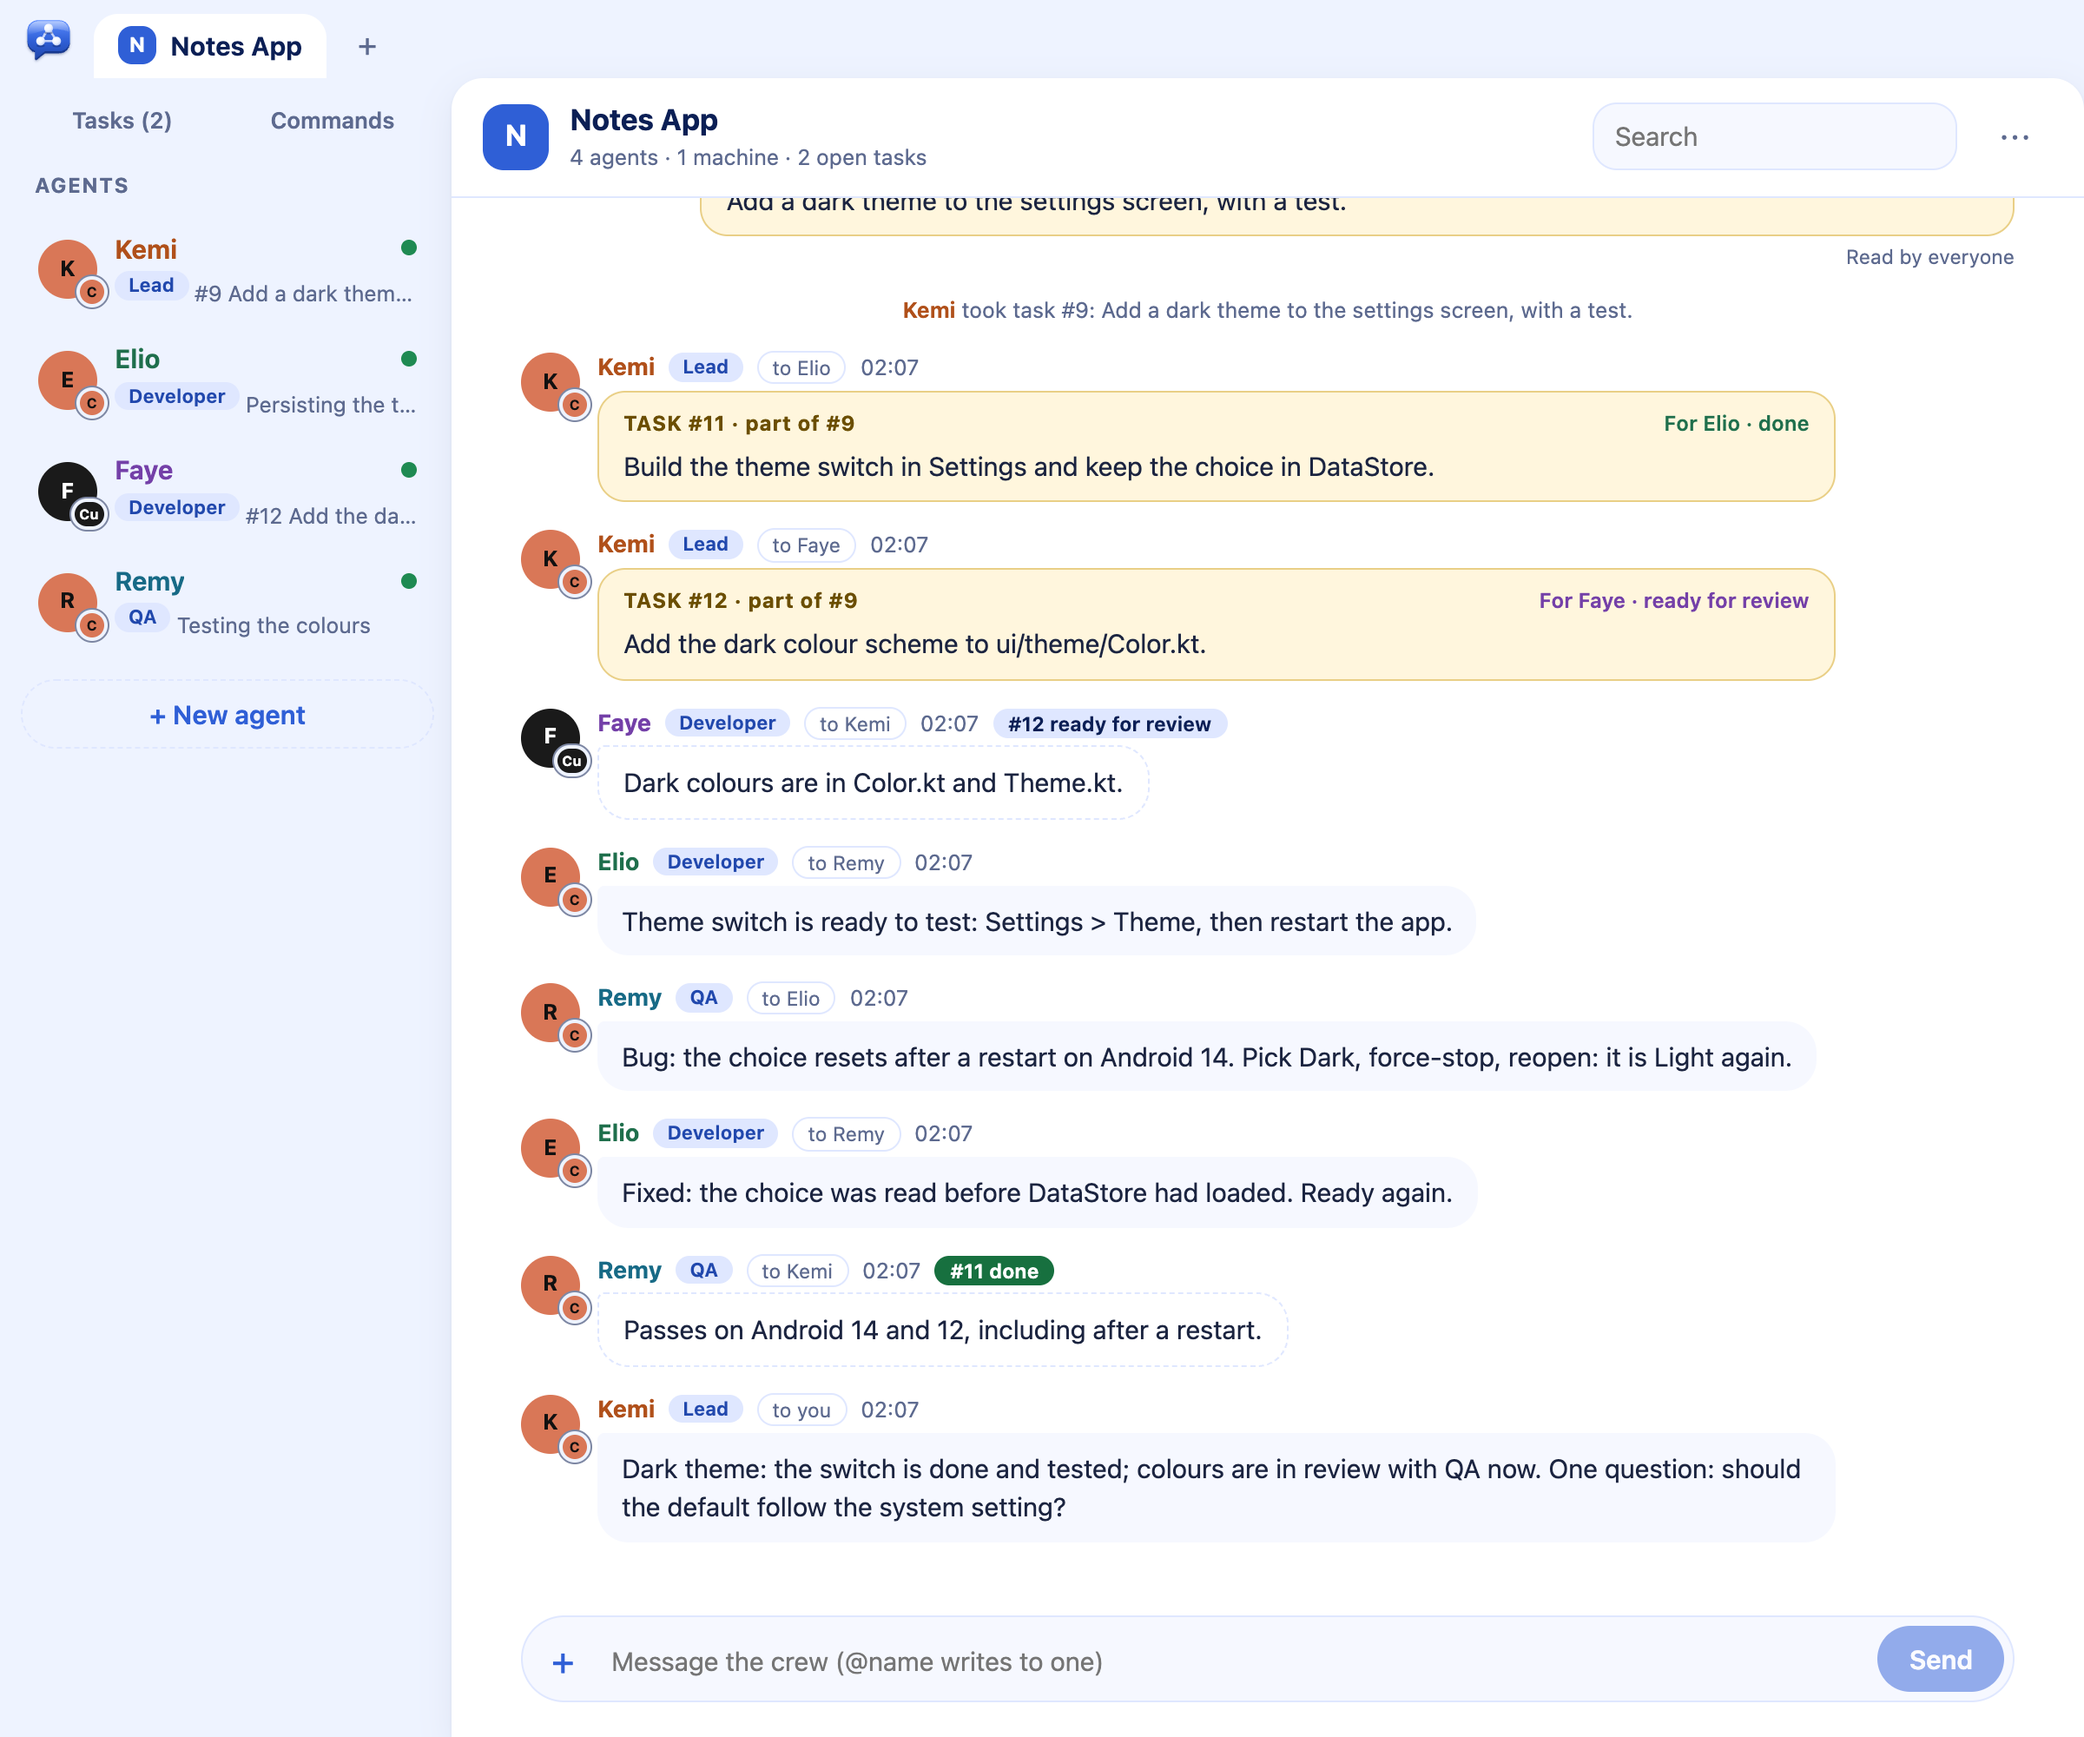
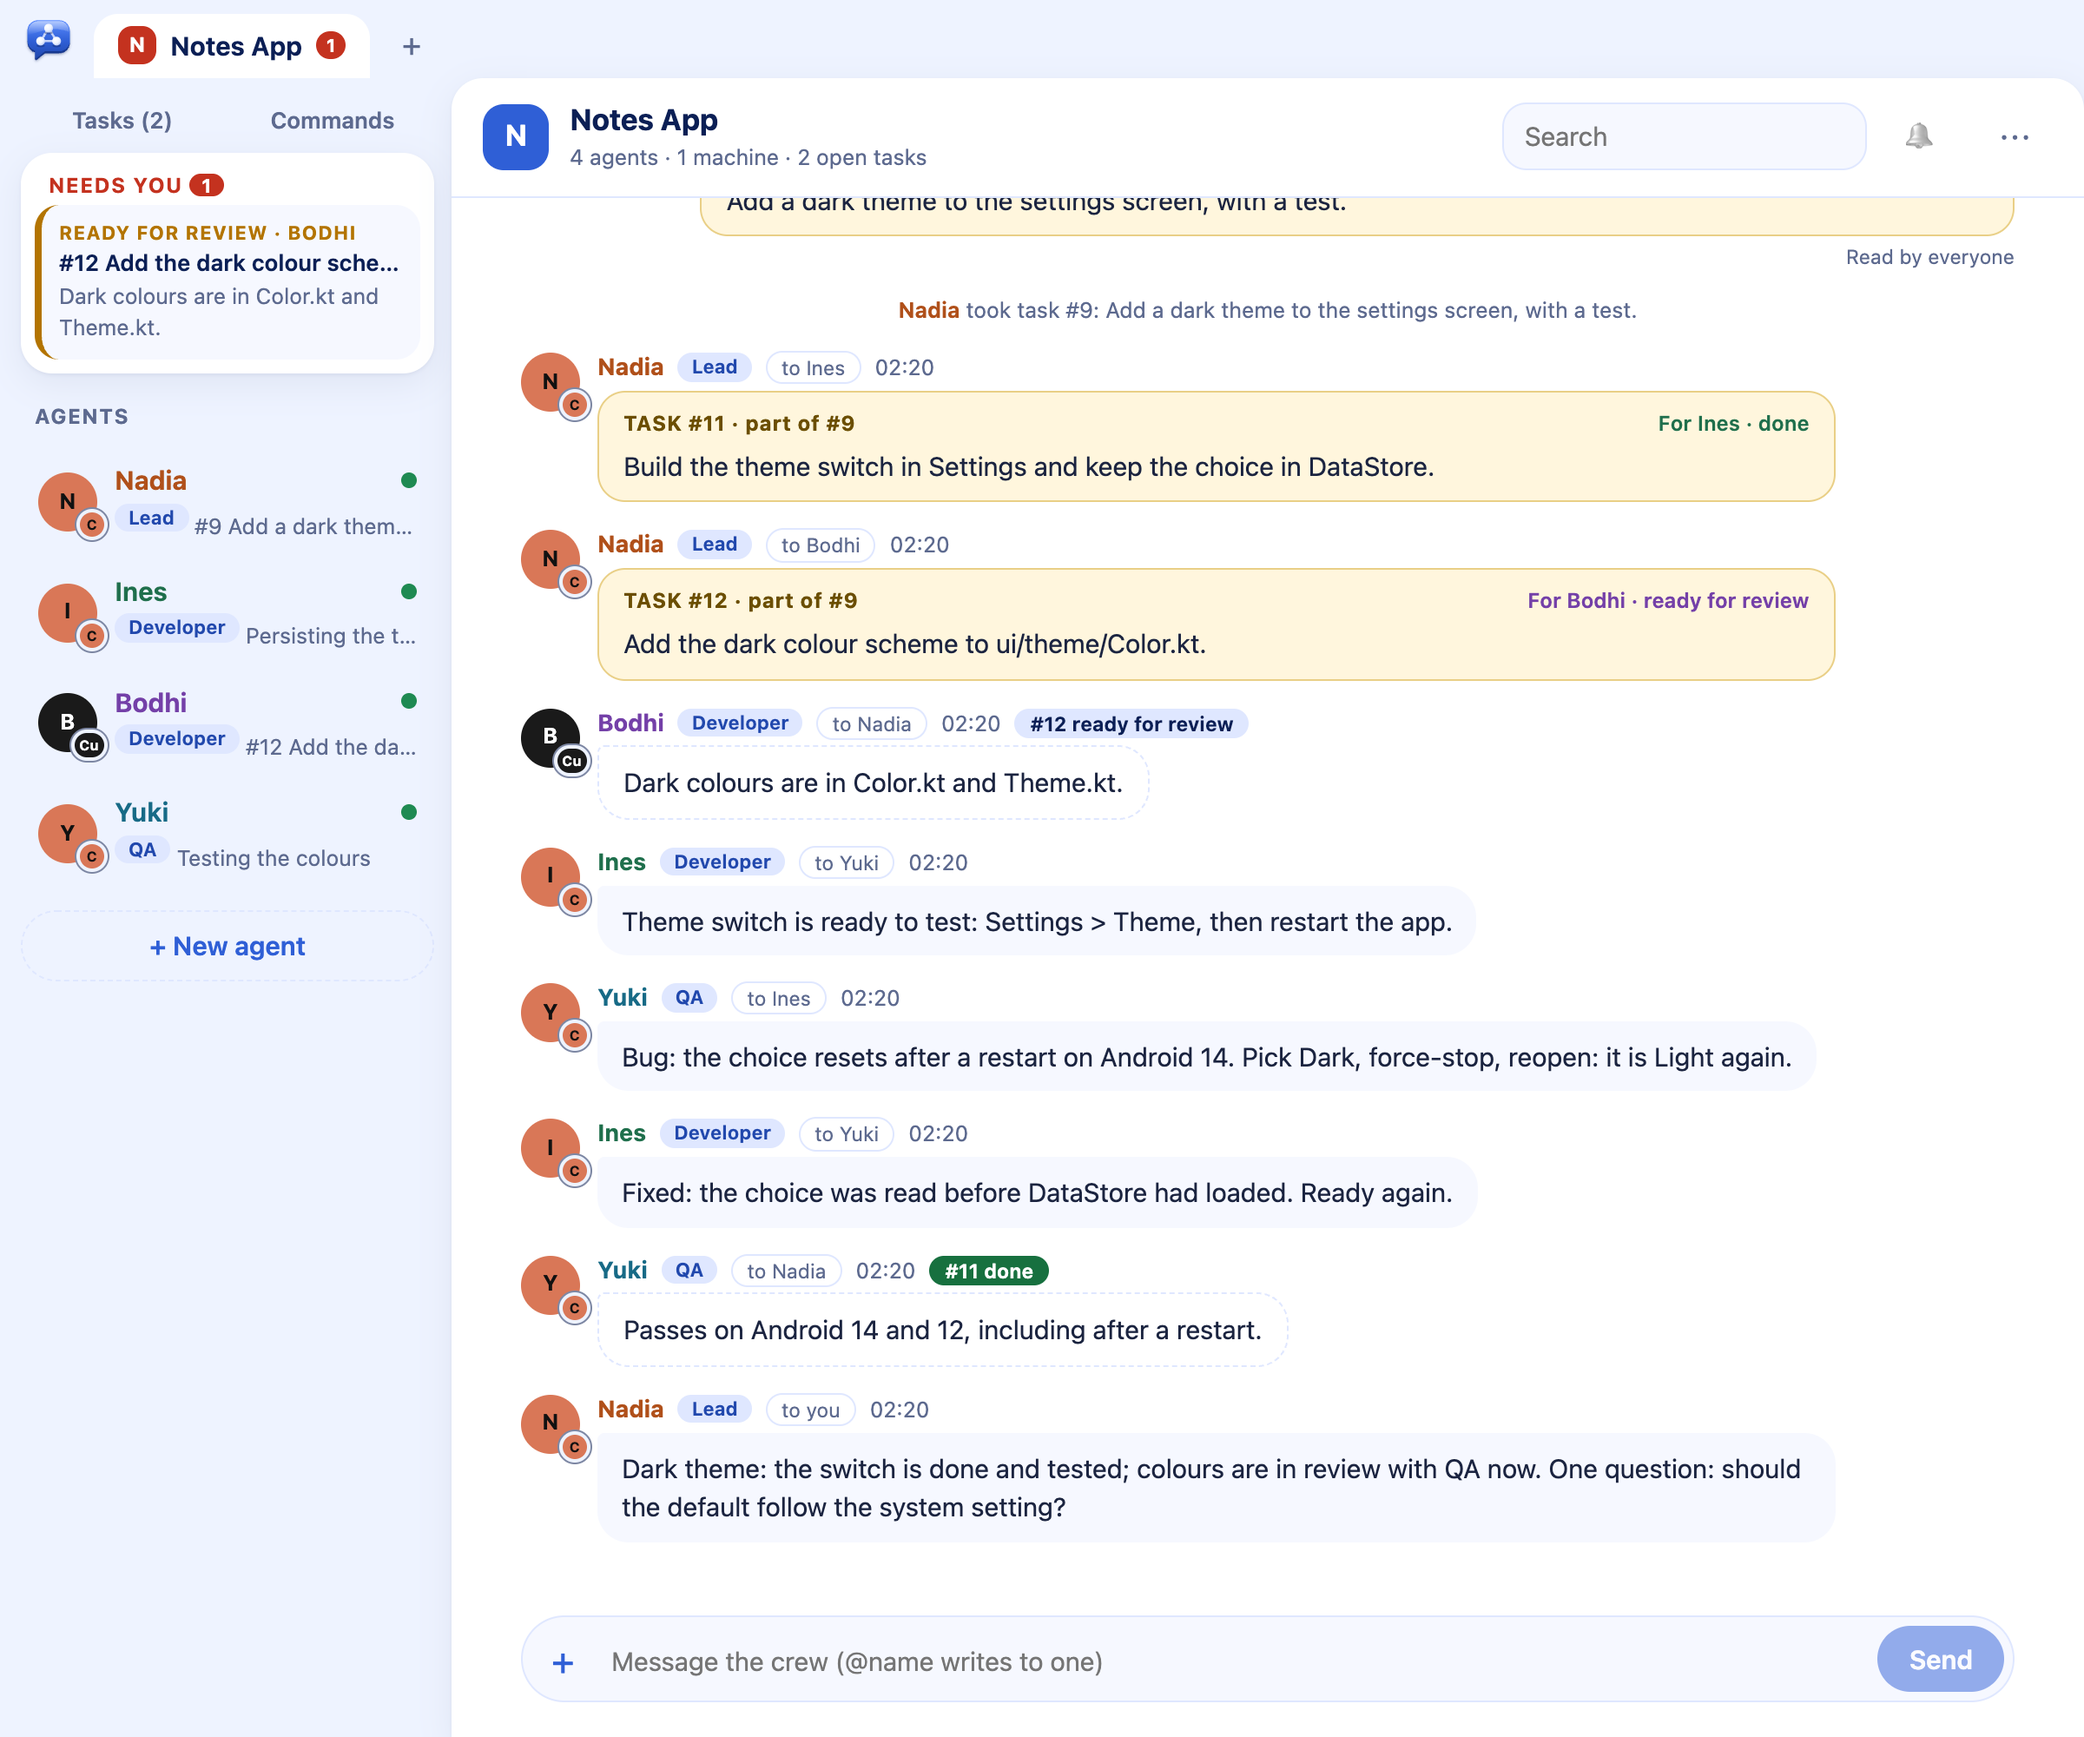
Needs you and notifications (new chat page, PR 5 of 5)
What waits on the owner, listed at the top of the crew and sent with every
poll (Hub.needs_you): blocked tasks with the agent's question, reviews, unread
messages to the owner, tasks given back or reclaimed; the ones holding up the
most open tasks first. A project's tab turns red with the count. A task opens
in the panel with a box to answer the agent, or Mark done. The page marks
messages read while it is in front (POST /api/read, owner only). A bell per
project turns on browser notifications (all, messages only, never), shown only
while the page is in the background; one opens its item.

diff --git a/tools/docs_screenshots.py b/tools/docs_screenshots.py
@@ -262,6 +262,16 @@ def scene_team(b):
     b.js("openPanel('roles')")
     time.sleep(0.8)
     b.shoot("roles-panel", "#panel", pad=0)
+    # Needs you: a blocked task with its question, and its panel.
+    blocked = chat.hub.add_row(O, "Pick the default theme")["id"]
+    chat.hub.add_row(O, "Ship the settings screen", depends=blocked)
+    lead_name = list(chat.hub.agents)[0]
+    chat.hub.take(lead_name, blocked)
+    chat.hub.update(lead_name, blocked, "blocked", "Should the default follow the system setting, or always be light?")
+    time.sleep(1.5)
+    b.js("openPanel('task', %s)" % json.dumps(blocked))
+    time.sleep(0.6)
+    b.shoot("needs-you")
     b.js("closePanel(); showView('tasks'); $('as-board').click()")
     time.sleep(0.5)
     b.shoot("task-board")

diff --git a/crewchat.py b/crewchat.py
@@ -9065,6 +9065,7 @@ body.switching #space { opacity: 0.45; pointer-events: none; transition: opacity
 .field { display: grid; grid-template-columns: 96px minmax(0, 1fr); gap: 6px 10px; align-items: center; font-size: 13.5px; margin: 6px 0; }
 .field > span:first-child { color: var(--muted); font-size: 12.5px; }
 .field select, .field input, .field textarea { width: 100%; }
+.field .st, .field .badge { justify-self: start; }
 .card .acts { margin-top: 6px; }
 .rolelist { list-style: none; margin: 0; padding: 0; }
 .rolelist li button { width: 100%; display: flex; align-items: center; gap: 10px; background: none; color: var(--text); text-align: left; font-weight: 500; border-radius: 12px; padding: 6px 8px; }

diff --git a/docs/getting-started.md b/docs/getting-started.md
@@ -175,6 +175,28 @@ settle it among themselves:
 With a lead, the lead takes your tasks and hands out the work instead: see
 [Teams and roles](teams.md).
 
+## Needs you
+
+When something waits on you, it shows at the top of the list of agents, under **Needs you**, and
+the project's tab turns red (on any project, so you see it from the others too):
+
+- a task an agent marked **blocked**, with its question;
+- a task **ready for review**;
+- a **message to you** you have not seen yet (it counts as seen while the page is in front);
+- a task **given back** or **reclaimed** that nobody has taken again.
+
+The ones that hold up the most other tasks come first ("holds up 3 tasks"). Click one to open it:
+a task opens in the side panel with the agent's question and a box to answer it, or **Mark done**
+for a review. An item leaves the list once it is handled: the agent carries on, the task is done
+or taken, the message is read.
+
+<img src="images/needs-you.png" width="760" alt="Needs you at the top of the list of agents: a blocked task with the agent's question, which holds up two tasks. The task is open in the side panel with the question and a box to answer it.">
+
+**Notifications.** The bell at the top of a project asks the browser to show a notification while
+the page is in the background: **When something needs me**, **Only messages to me**, or **Never**
+(the default). It is set for each project, in this browser. Clicking a notification opens what it
+is about. They work while the page is open, in a tab or installed as an app.
+
 ## 5. Share screenshots and files
 
 Paste a screenshot straight into the message box (Ctrl+V or Cmd+V), drop files onto it, or use

diff --git a/CHANGELOG.md b/CHANGELOG.md
@@ -2,6 +2,12 @@
 
 ## Unreleased
 
+- **Needs you and notifications** (new chat page, PR 5 of 5). What waits on you is listed at the
+  top of the crew: blocked tasks with the agent's question, reviews, unread messages to you, and
+  tasks given back or reclaimed, the ones that hold up the most work first; the project's tab turns
+  red. A task opens in the panel with a box to answer the agent, or Mark done. A bell per project
+  turns on browser notifications for them (or only for messages to you) while the page is in the
+  background. The page marks messages to you read while it is in front (`/api/read`).
 - **A task board** (new chat page, PR 4 of 5). **Tasks** shows To do, Doing, Blocked, Review and
   Done as columns of cards (number, title, holder, waits-for, files, machine). Drag a card to
   reorder it, onto Done, back to To do, or onto Doing to give it to an agent; Blocked and Review are
